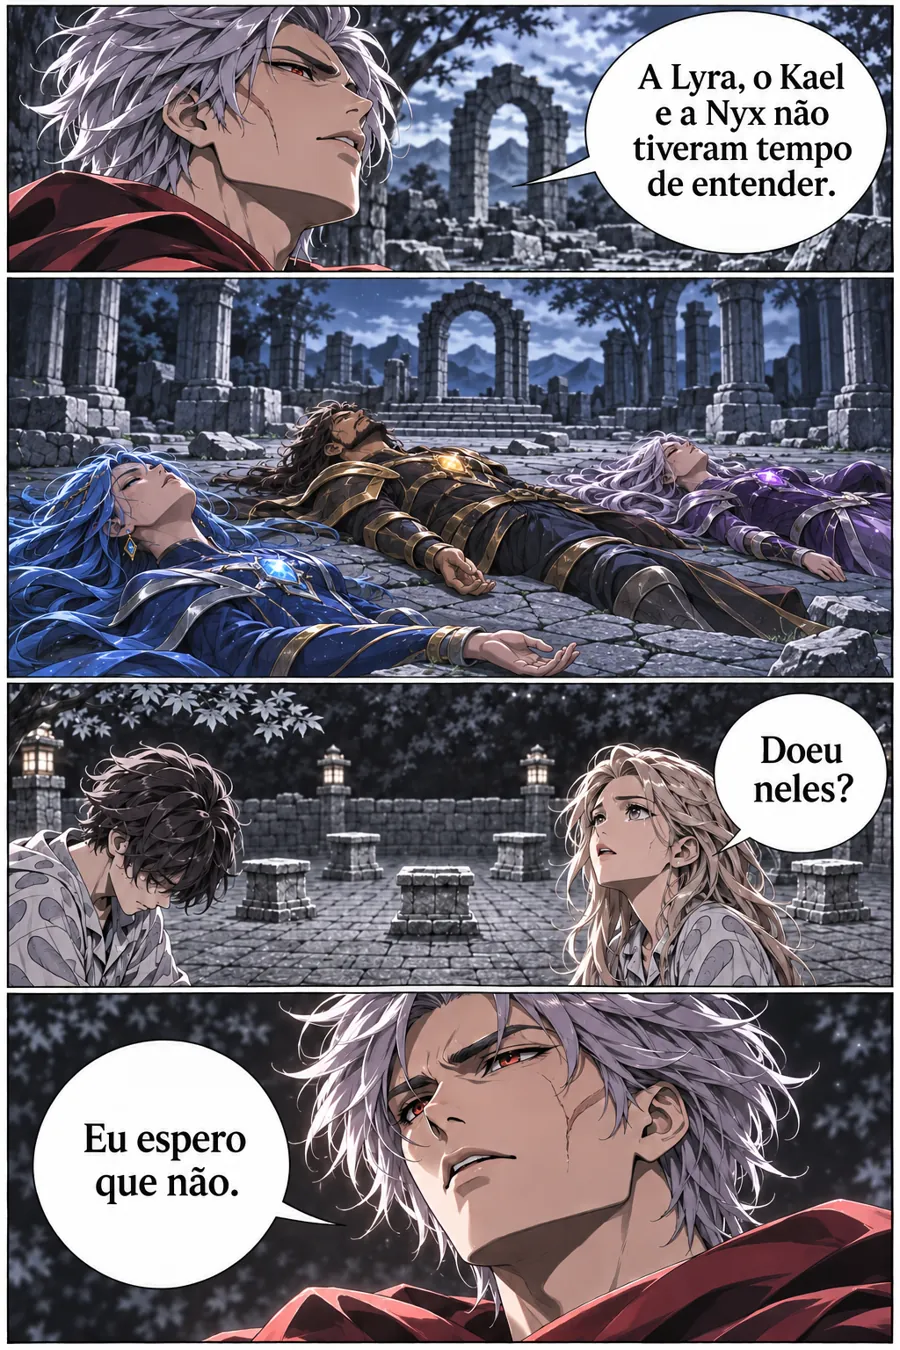
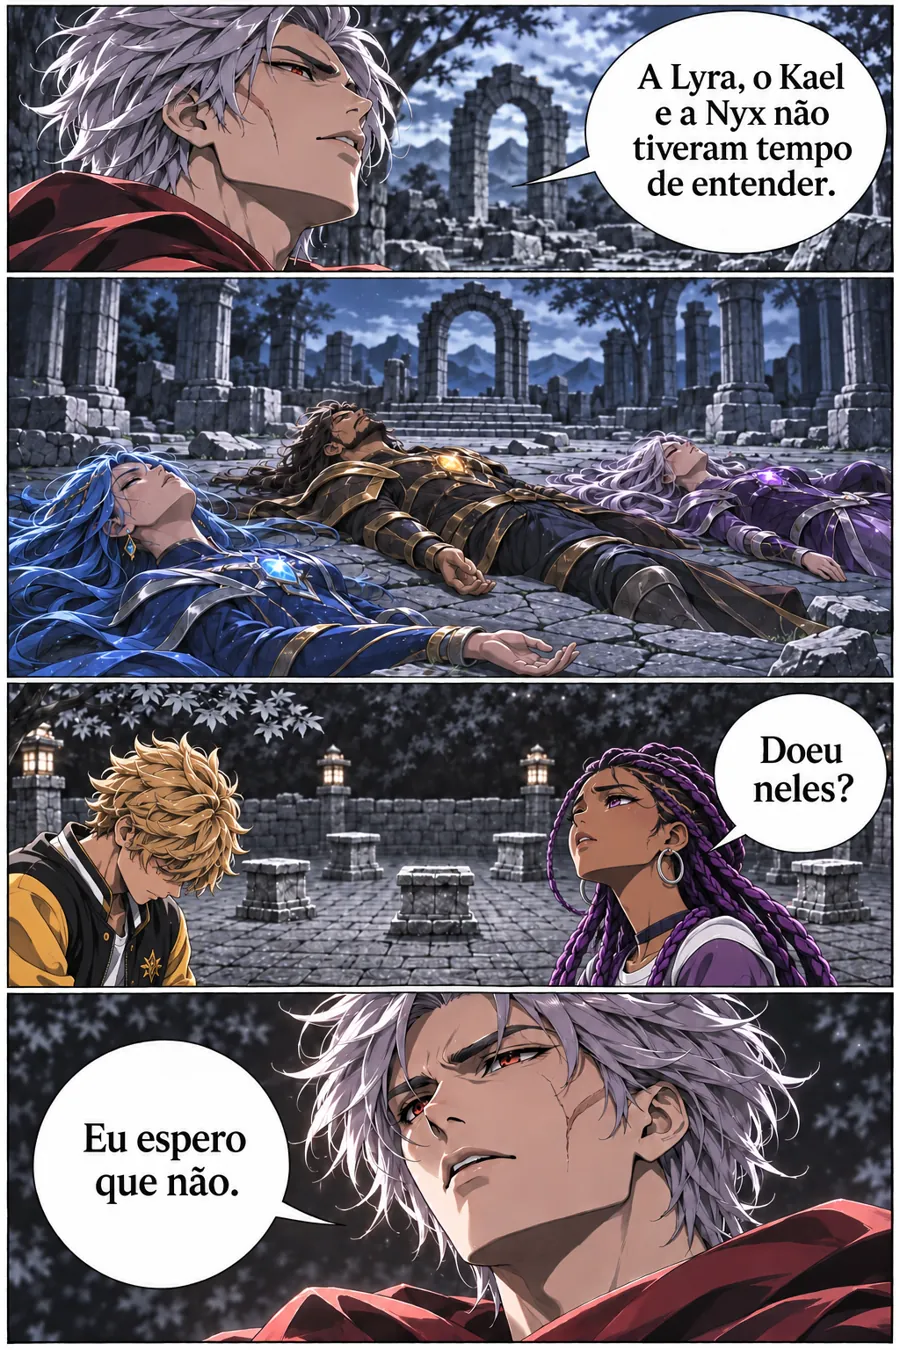
Atualiza leitor

diff --git a/index.html b/index.html
@@ -78,7 +78,10 @@ function musicBtn(c){
   sync();
   if(AUDSRC!==c.musica){AUD.pause();AUDSRC=null}
   start();
-  document.addEventListener('pointerdown',start,{once:true});
+  var ev=['pointerdown','touchend','click','keydown'];
+  function retry(){start();}
+  AUD.onplaying=function(){ev.forEach(function(e){document.removeEventListener(e,retry,true)})};
+  ev.forEach(function(e){document.addEventListener(e,retry,true)});
   return b;
 }
 function stopMusic(){AUD.pause();AUDSRC=null}
